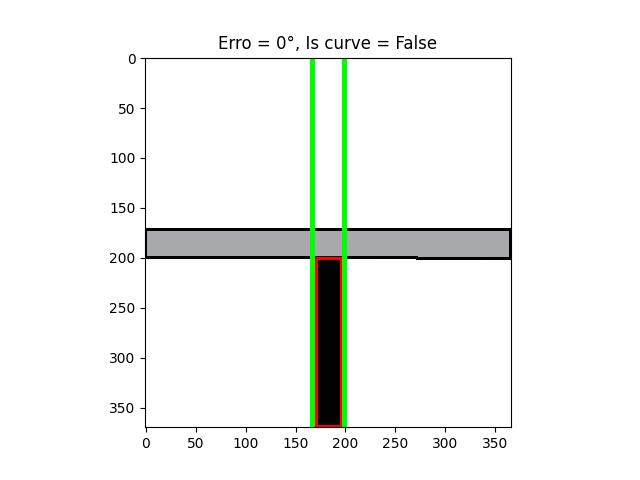
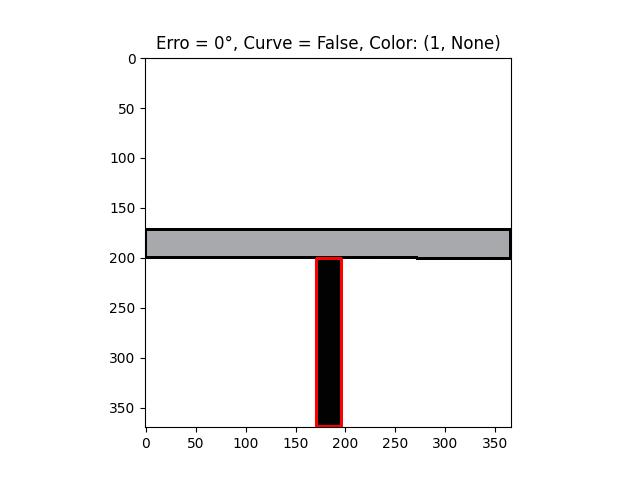
Refatored line_detection
I have refatored the code struct trying to find the best version of the
code and I believe it that, also I try to find solutions to spend less
memory

Changed region(s): [[0.25, 0.0625, 0.7812, 0.9062]]

diff --git a/line_detection.py b/line_detection.py
@@ -23,7 +23,7 @@ def calculate_error(target_line):
         start_point_flow (int): X-axis starting position of the car flow line.
 
     Returns:
-        int: erro in degrees.
+        int: error in degrees.
     """
     #print(target_line)
     if isinstance(target_line, tuple):
@@ -32,7 +32,7 @@ def calculate_error(target_line):
     # Convert to numpy array e remove the extra dimensions
     contour = np.squeeze(np.array(target_line))  
 
-    # avoid erro if has few points
+    # avoid error if has few points
     if contour.shape[0] < 2:
         return None  
     
@@ -49,7 +49,7 @@ def calculate_error(target_line):
     # assure the degres in [0, 180]
     theta_deg = theta_deg + 180 if theta_deg < 0 else theta_deg
     
-    # return the erro in degree (for less use of memory)
+    # return the error in degree (for less use of memory)
     return int(theta_deg - 90)
 
 def identify_colour(img):
@@ -163,67 +163,106 @@ def verify_curve(contours, img_width):
     # return no curve
     return False
 
-def detect_line(img):
+def process_image(img):
     """
-    Detects lines in the given image using edge detection and Hough Transform, 
-    draws the detected lines, and calculates the error between the detected lines 
-    and a reference flow line.
+    Preprocesses the image to isolate dark regions (potential lines) using grayscale 
+    conversion, thresholding, and morphological operations to reduce noise.
 
     Args:
-        img (numpy.ndarray): Input image, which should be in BGR format.
+        img (numpy.ndarray): Input image in BGR format.
 
     Returns:
-        tuple: A tuple containing:
-            - erro (int) - The erro beetwen the car and line
-            - is_curve (int) - The side has a curve
-            - has_colour (tuple) - The colour on the image and your side
+        numpy.ndarray: Binary image with detected dark regions (lines) highlighted.
+    """
+
+    # Convert the image to grayscale
+    img_gray = cv2.cvtColor(img, cv2.COLOR_BGR2GRAY)
+    
+    # Aplly a threshold to detect only darken colours
+    _, binary = cv2.threshold(img_gray, 50, 255, cv2.THRESH_BINARY_INV)
+
+    # reduce the noise
+    kernel = np.ones((3, 3), np.uint8)
+    binary = cv2.morphologyEx(binary, cv2.MORPH_OPEN, kernel)
+    binary = cv2.morphologyEx(binary, cv2.MORPH_CLOSE, kernel)
+
+    return binary
+
+def analyse_contours(img, contours):
+    """
+    Analyzes the provided contours to determine if a curve is present and calculate 
+    the angular error between the line and the vertical axis.
+
+    Args:
+        img (numpy.ndarray): Original image in BGR format (used for drawing).
+        contours (list): List of contours detected from the binary image.
+
+    Returns:
+        tuple:
+            - erro (int or None): Angular error in degrees relative to vertical.
+            - curve_side (int or None): LEFT or RIGHT if a curve is detected, otherwise False.
+    """
+    # verify if has a line on the image
+    if len(contours) > 0:
+        # drawn the line target
+        cv2.drawContours(img, contours, -1, (0, 0, 255), 2)
+        
+        # send img_widht as img.shape[1]
+        curve_side = verify_curve(contours, img.shape[1])
+        
+        # calculate the error
+        erro = calculate_error(contours)
+
+        # to avoid false-positive
+        if (erro > 0 and erro <= 10) or (erro >= -10 and erro < 0): curve_side = False
+
+        return erro, curve_side
+    return None, None 
+
+def detect_line(img):
+    """
+    Main function to detect a line in the input image, check for curves, and identify 
+    the presence of significant colors (red, green, or gray).
+
+    This function orchestrates the image processing pipeline including preprocessing, 
+    contour detection, curve verification, angular error calculation, and color detection.
+
+    Args:
+        img (numpy.ndarray): Input image in BGR format.
+
+    Returns:
+        tuple:
+            - error (int or None): Angular error in degrees (0 if a symbol is detected).
+            - curve_side (int or bool or None): LEFT, RIGHT, or False if no curve found.
+            - color_detected (tuple or None): Tuple with detected color code and side (if green), 
+              or None if no color is detected.
     """
 
     # verify if img exists
-    if img is not None:
-        # Convert the image to grayscale
-        img_gray = cv2.cvtColor(img, cv2.COLOR_BGR2GRAY)
-        
-        # Aplly a threshold to detect only darken colours
-        _, binary = cv2.threshold(img_gray, 50, 255, cv2.THRESH_BINARY_INV)
-    
-        # reduce the noise
-        kernel = np.ones((3, 3), np.uint8)
-        binary = cv2.morphologyEx(binary, cv2.MORPH_OPEN, kernel)
-        binary = cv2.morphologyEx(binary, cv2.MORPH_CLOSE, kernel)
-    
-        # Detect points that form a line
-        contours, _ = cv2.findContours(binary, cv2.RETR_EXTERNAL, cv2.CHAIN_APPROX_SIMPLE)
-    
-        # verify if has a symbol on the img
-        cor_detected = identify_colour(img)
-        
-        # verify if has a line on the image
-        if len(contours) > 0:
-            # drawn the line target
-            cv2.drawContours(img, contours, -1, (0, 0, 255), 2)
-            
-            # send img_widht as img.shape[1]
-            is_curve = verify_curve(contours, img.shape[1])
-            
-            # calculate the error
-            erro = calculate_error(contours)
-                
-            # to avoid false-positive
-            if (erro > 0 and erro <= 10) or (erro >= -10 and erro < 0): is_curve = False
-            
-            # to avoid false-positive
-            if cor_detected or is_curve != False: return 0, is_curve, cor_detected
-                
-            # return the erro and is_curve
-            return erro, is_curve, cor_detected
-            
-    return None, None, None
+    if img is None:
+        return None, None, None
 
-def download_image(img, erro, path, image_name, is_curve=False):
-    plt.title(f'Erro = {erro}°, Is curve = {is_curve}')
+    # process the image
+    processed_img = process_image(img)
+    
+    # Detect points that form a line
+    contours, _ = cv2.findContours(processed_img, cv2.RETR_EXTERNAL, cv2.CHAIN_APPROX_SIMPLE)
+
+    # verify if has a symbol on the img
+    color_detected = identify_colour(img)
+    
+    # analyse the contours on the image
+    error, curve_side = analyse_contours(img, contours)
+
+    # to avoid false-positive
+    if color_detected or curve_side is not False and len(contours) > 0: return 0, curve_side, color_detected
+        
+    # return the erro and curve_side and color_detected
+    return error, curve_side, color_detected
+
+def download_image(img, erro, path, image_name, color_detected, curve_side=False):
+    plt.title(f'Erro = {erro}°, Curve = {curve_side}, Color: {color_detected}')
     plt.imshow(cv2.cvtColor(img, cv2.COLOR_BGR2RGB))
-
     plt.savefig(f"{path}/analised/{image_name}-analised.jpg")
 
 if __name__ == '__main__':
@@ -238,11 +277,12 @@ if __name__ == '__main__':
         img = cv2.imread(path + image_name)
         #img = cv2.imread(image_name)
         
-        erro, is_curve, has_colour = detect_line(img)
-        print(f"Erro: {erro}|isCurve: {is_curve}|has_colour: {has_colour}")
+        erro, curve_side, color_detected = detect_line(img)
+        print(f"Erro: {erro}|isCurve: {curve_side}|has_colour: {color_detected}")
 
-        #image_name, type_file = image_name.split('.jpg')
-        #download_image(erro, path, image_name, is_curve)
+        image_name, type_file = image_name.split('.jpg')
+
+        #download_image(img, erro, path, image_name, color_detected, curve_side)
         #print('The error in degrees:', erro)
         print(f"Memory used: {psutil.Process(os.getpid()).memory_info().rss / (1024 ** 2)} MB")
         print('-'*35)

diff --git a/adjust_params_relief.py b/adjust_params_relief.py
@@ -4,7 +4,7 @@ import numpy as np
 def nothing(x):
     pass
 
-img = cv2.imread('C:/Users/Samuel/Downloads/Programacao/projetos-visao-computacional/OBR2025/datas/reliefs/box.jpg')
+img = cv2.imread('C:/Users/Samuel/Downloads/Programacao/projetos-visao-computacional/OBR2025/datas/reliefs/caixa.jpg')
 img_gray = cv2.cvtColor(img, cv2.COLOR_BGR2GRAY)
 
 cv2.namedWindow('Relief Detection')

diff --git a/ball_detection.py b/ball_detection.py
@@ -50,9 +50,6 @@ def find_ball(img):
     dim = (desired_width, desired_height)
     img = cv2.resize(img, dim, interpolation=cv2.INTER_AREA)
 
-    # to debug
-    #print(img.shape)
-    
     # transform the img in gray-scale
     img_gray = cv2.cvtColor(img, cv2.COLOR_BGR2GRAY)
     
